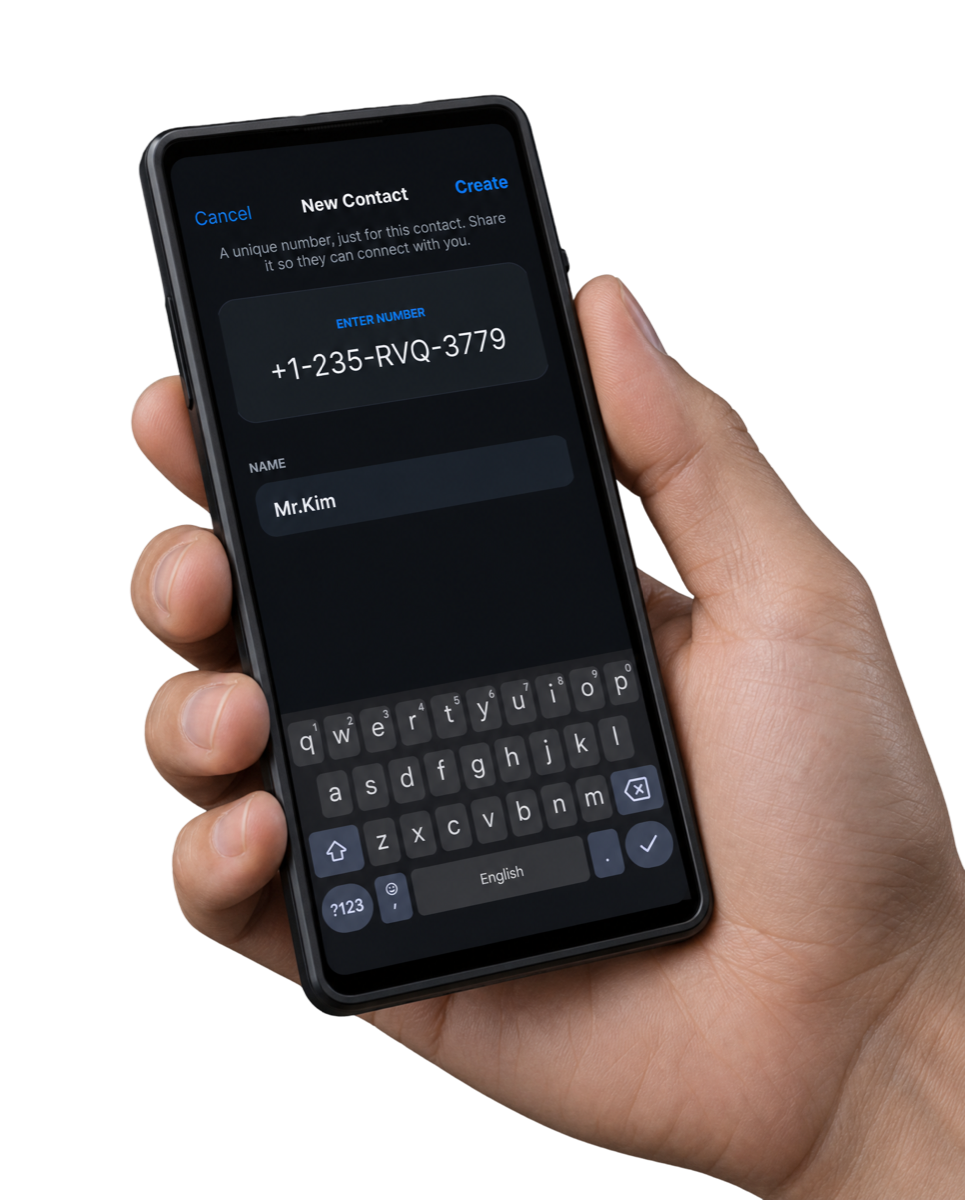
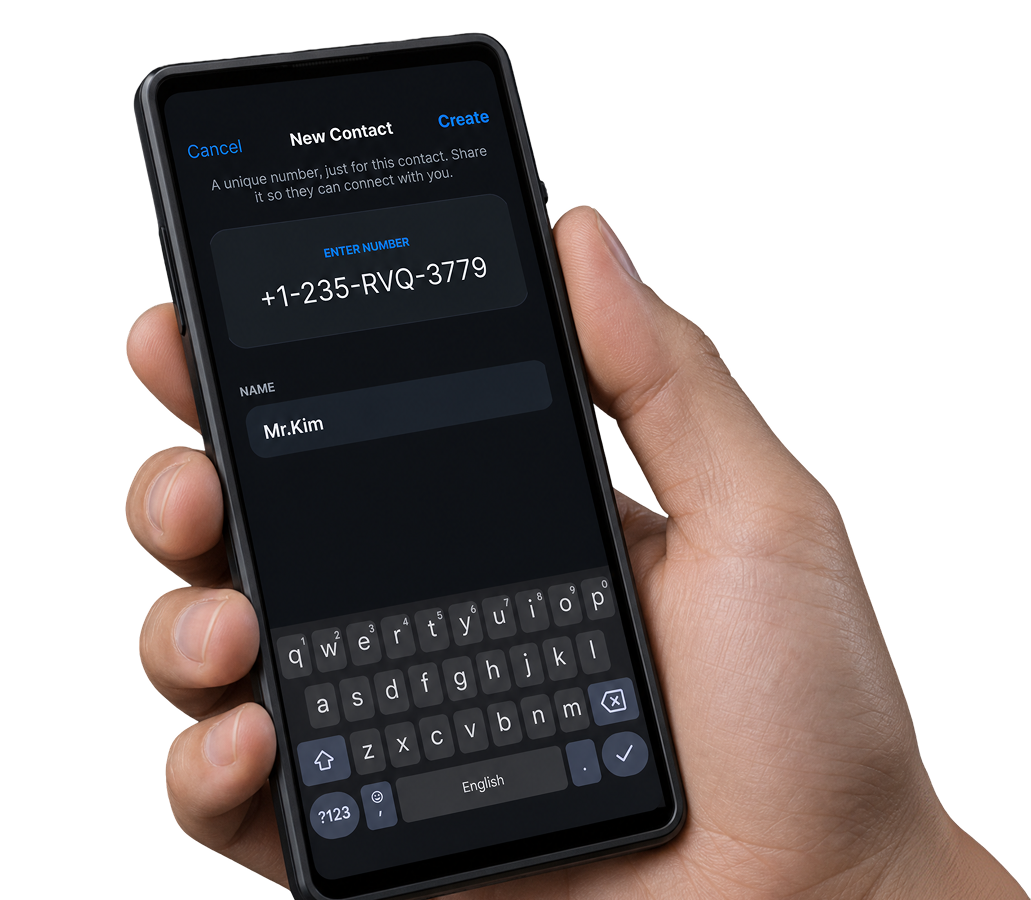
fix(home): replace cropped private-card hover photo with the uncropped version
Old asset had already been cropped tighter than what the box could show
in full. Swapped in the full phone-in-hand photo and retuned the crop
box (no rotation, height/top adjusted) to fit the new aspect ratio with
the whole phone visible.

diff --git a/app/page.module.css b/app/page.module.css
@@ -169,11 +169,10 @@
   }
 
   .private .imageLayer {
-    height: 128%;
+    height: 123%;
     opacity: 0;
     right: 0;
-    top: 0%;
-    transform: rotate(-10deg);
+    top: -1.5%;
     width: 34%;
     -webkit-mask-image: linear-gradient(to right, transparent 0, #000 20%);
     mask-image: linear-gradient(to right, transparent 0, #000 20%);